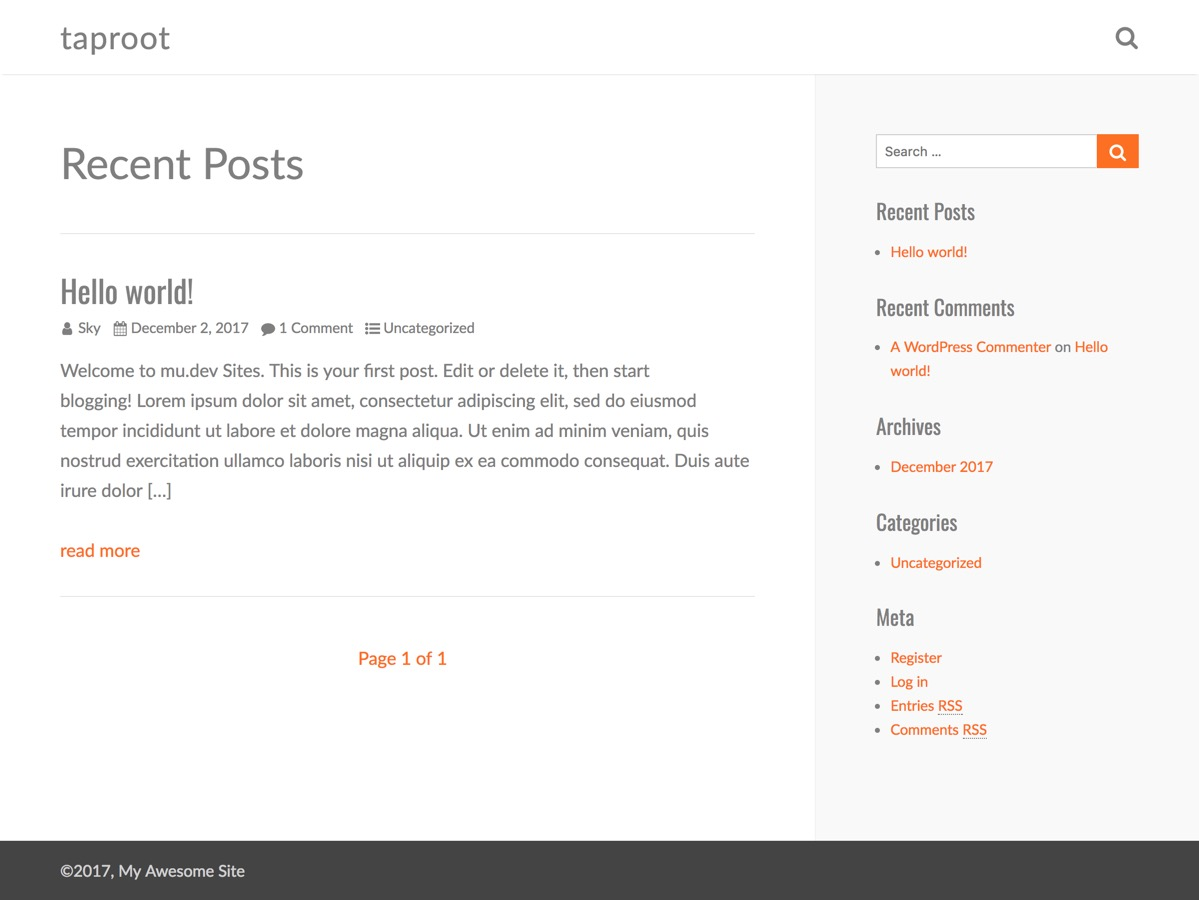
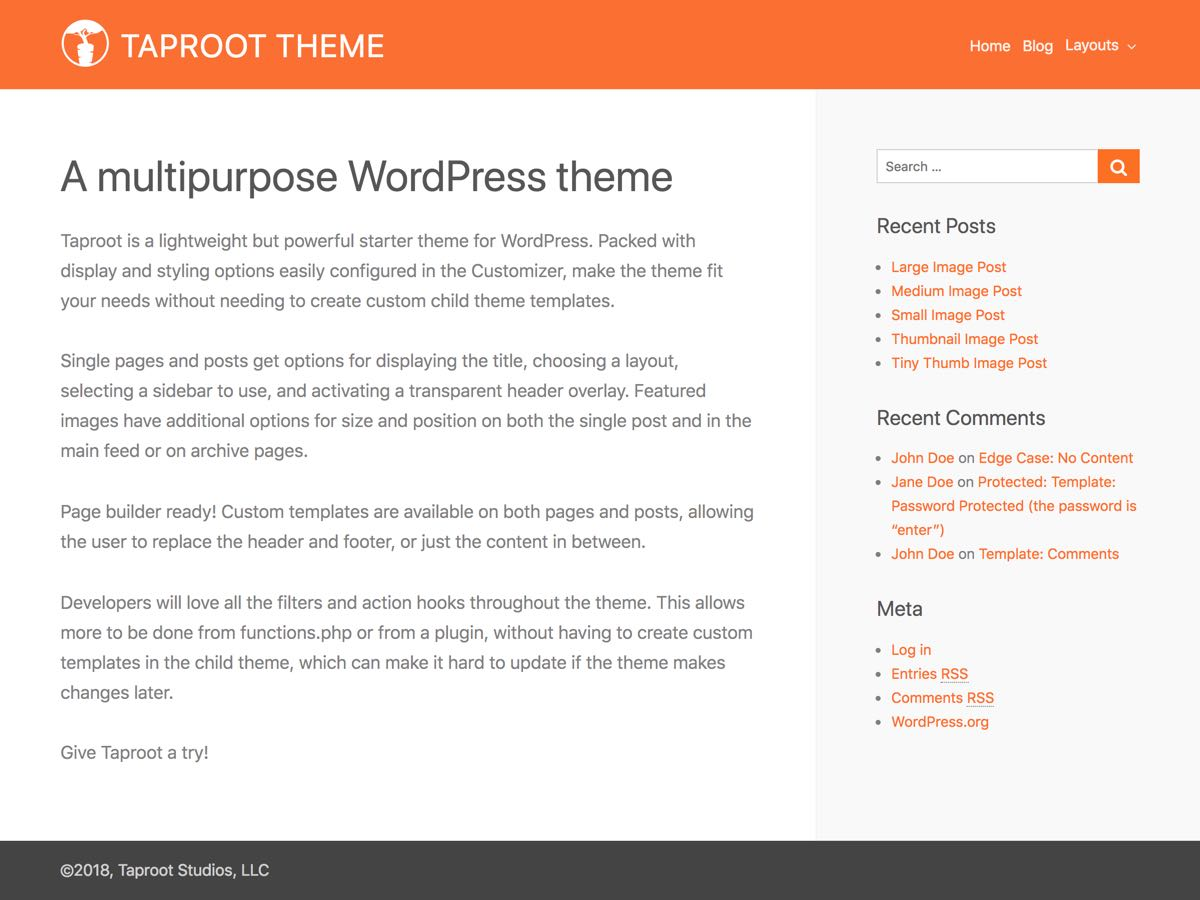
Updated theme description and screenshot

diff --git a/style.css b/style.css
@@ -3,7 +3,7 @@ Theme Name: Taproot
 Theme URI: https://taproot-theme.com
 Author: Sky Shabatura
 Author URI: http://sky.camp
-Description: Original theme for use with or without builders.
+Description: Taproot is a lightweight yet powerful starter theme that can be customized and extended to fit a wide variety of needs. Global site layouts, settings, and colors can be easily configured in the many options in the Customizer. Single pages and posts have options for the layout, title, sidebars, featured image and header. Custom sidebars can be created right in the Widgets interface. There are plenty of actions and filters for developers to be able to change or extend the theme components without requiring custom theme templates. Whether you need something clean, simple and ready to go, or a base for a feature rich custom site, Taproot may be just what you're looking for.
 Version: 0.9.4
 License: GNU General Public License v2 or later
 License URI: http://www.gnu.org/licenses/gpl-2.0.html
